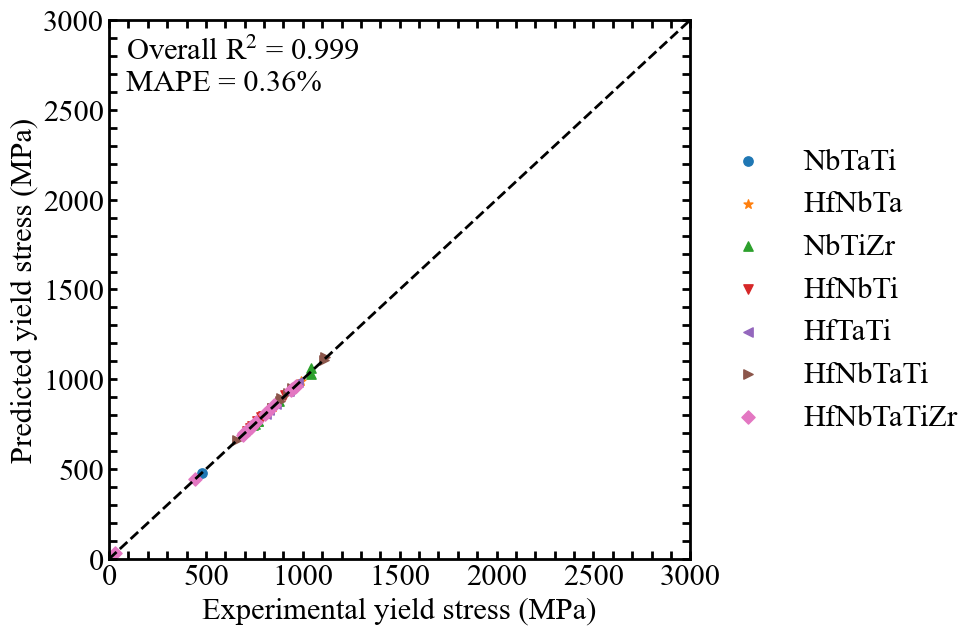
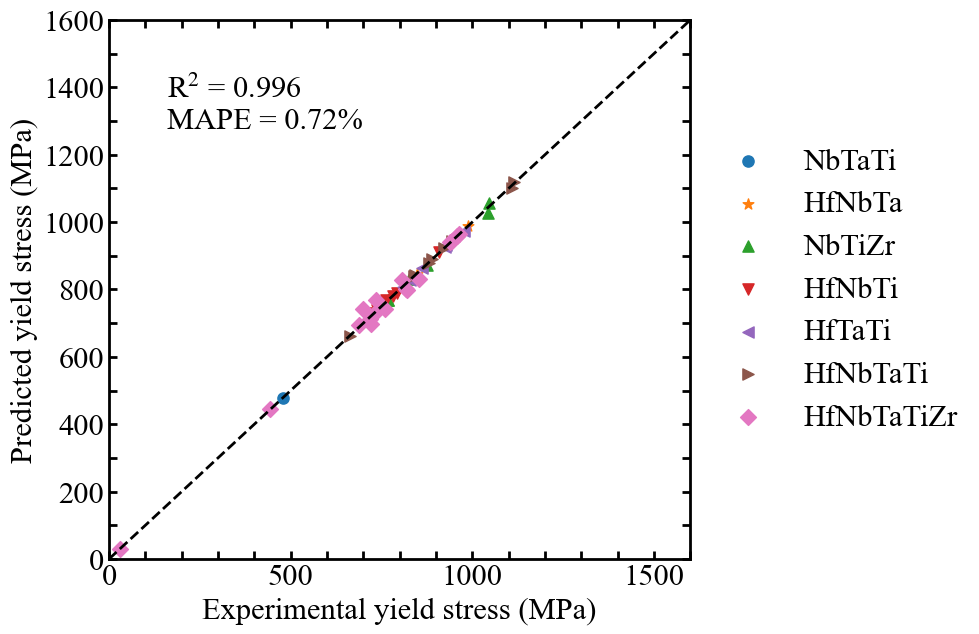
update aij code

diff --git a/LSR_strength_relation/Pytorch_fitting_strength_LSR.py b/LSR_strength_relation/Pytorch_fitting_strength_LSR.py
@@ -8,7 +8,7 @@ from tqdm import tqdm
 from sklearn.metrics import r2_score
 from matplotlib.ticker import MultipleLocator
 import util_fitting
-
+torch.manual_seed(0); np.random.seed(0)
 warnings.filterwarnings("ignore", category=UserWarning)
 
 class StrengthTrainer:
@@ -148,11 +148,9 @@ class StrengthTrainer:
         for i in range(len(Ncount)):
             r2s.append(r2_score(ys_exp_chunks[i], ys_pred_chunks[i]))
             plt.scatter(ys_exp_chunks[i], ys_pred_chunks[i],
-                        color=colors[i], marker=markers[i], label=labels[i], s=45)
-
-        lim = [0, 3000]
+                        color=colors[i], marker=markers[i], label=labels[i], s=65)
+        lim = [0, 1600]
         plt.plot(lim, lim, 'k--', linewidth=2)
-
         ax = plt.gca()
         ax.tick_params(axis='both', which='both', direction='in', width=2, length=6, top=True, right=True)
         ax.xaxis.set_minor_locator(MultipleLocator(100))
@@ -164,8 +162,8 @@ class StrengthTrainer:
         for s in ax.spines.values(): s.set_linewidth(2)
 
         # ---- annotate metrics on top of the plot ----
-        txt = f"Overall R$^2$ = {r2_all:.3f}\nMAPE = {mape_all:.2f}%"
-        ax.text(0.03, 0.97, txt, transform=ax.transAxes, va='top', ha='left',
+        txt = f"R$^2$ = {r2_all:.3f}\nMAPE = {mape_all:.2f}%"
+        ax.text(0.1, 0.9, txt, transform=ax.transAxes, va='top', ha='left',
                 bbox=dict(facecolor='white', edgecolor='none', alpha=0.85))
 
         fpng = os.path.join(self.args.fig_dir, "Comparison_yield_stress.png")
@@ -184,10 +182,81 @@ class StrengthTrainer:
         if len(self.loss_hist) == 0: return
         plt.figure(figsize=(7.5,5))
         plt.rcParams['font.family'] = 'Times New Roman'; plt.rcParams['font.size'] = 22; plt.rcParams['mathtext.fontset'] = 'stix'
-        plt.semilogy(self.loss_hist, color='darkblue', label='training', linewidth=2.5)
+        plt.semilogy(self.loss_hist, color='darkblue', label='Training', linewidth=2.5)
         plt.xlabel('Epochs'); plt.ylabel('Loss'); plt.tick_params(axis='both', which='both', direction='in'); plt.legend(loc="upper right", frameon=False)
         f = os.path.join(self.args.fig_dir, "loss.png")
         plt.savefig(f, bbox_inches='tight'); print(f"---> saved figure: {f}")
+
+    def plot_aij_components(self):
+        """Visualize fitted a_ij as (1) mean 6x6 heatmap and (2) 21-comp mean±std bar chart."""
+        self.model.eval()
+        with torch.no_grad():
+            # Build context and evaluate a_ij(z) for all samples
+            z = self.model._build_context(self.TP, self.SR, self.GS)      # (N,3)
+            A = self.model.subModel1.a_layer(z)                           # (N,6,6)
+            # Ensure exact symmetry (model should output symmetric, but make it explicit)
+            A = 0.5 * (A + A.transpose(-1, -2))
+            A_np = A.detach().cpu().numpy()                                # (N,6,6)
+
+        # ---- Figure 1: mean heatmap of a_ij ----
+        A_mean = A_np.mean(axis=0)                                         # (6,6)
+        plt.figure(figsize=(6.5, 5.6))
+        plt.rcParams['font.family'] = 'Times New Roman'
+        plt.rcParams['font.size'] = 20
+        plt.rcParams['mathtext.fontset'] = 'stix'
+
+        v = np.max(np.abs(A_mean))
+        im = plt.imshow(A_mean, origin='upper', cmap='coolwarm', vmin=-v, vmax=v)
+        cb = plt.colorbar(im, fraction=0.046, pad=0.04)
+        cb.ax.tick_params(labelsize=16)
+
+        slip_labels = [r'$\gamma^{110}$', r'$\tau^{110}$', r'$\gamma^{112}$',
+                       r'$\tau^{112}$', r'$\gamma^{123}$', r'$\tau^{123}$']
+        plt.xticks(range(6), slip_labels, rotation=45)
+        plt.yticks(range(6), slip_labels)
+        ax = plt.gca()
+        for s in ax.spines.values(): s.set_linewidth(2)
+        ax.tick_params(axis='both', which='both', direction='in', width=2, length=6, top=True, right=True)
+
+        # annotate values
+        for i in range(6):
+            for j in range(6):
+                plt.text(j, i, f"{A_mean[i,j]:.2f}", ha='center', va='center', fontsize=15, color='black')
+
+        plt.title(r"Mean $a_{ij}$ over dataset")
+        fpng = os.path.join(self.args.fig_dir, "aij_mean_heatmap.png")
+        fpdf = os.path.join(self.args.fig_dir, "aij_mean_heatmap.pdf")
+        plt.tight_layout(); plt.savefig(fpng, dpi=300); print(f"---> saved figure: {fpng}")
+        plt.savefig(fpdf); print(f"---> saved figure: {fpdf}")
+
+        # ---- Figure 2: upper-triangular components (mean ± std) ----
+        iu = np.triu_indices(6) # (21,)
+        A_tri = A_np[:, iu[0], iu[1]] # (N,21)
+        mu = A_tri.mean(axis=0)
+        sd = A_tri.std(axis=0)
+
+        # human-friendly labels like "e110–e110", "e110–s110", ...
+        pair_labels = [rf"{slip_labels[i]}$\leftrightarrow${slip_labels[j]}" for i, j in zip(iu[0], iu[1])]
+
+        plt.figure(figsize=(12, 5))
+        # plt.rcParams['font.family'] = 'Times New Roman'
+        # plt.rcParams['font.size'] = 16
+        # plt.rcParams['mathtext.fontset'] = 'stix'
+
+        x = np.arange(len(mu))
+        plt.bar(x, mu, yerr=sd, capsize=3, color='skyblue', edgecolor='black', error_kw={'elinewidth':1.5})
+        ax = plt.gca(); ax.set_xticks(x)
+        # show every label but keep it readable by tilting; feel free to thin ticks if crowded
+        ax.set_xticklabels(pair_labels, rotation=45, ha='right')
+        ax.set_ylabel(r"$a_{ij}$ (mean $\pm$ std)")
+        ax.set_title(r"Upper-triangular components of $a_{ij}$")
+        ax.tick_params(axis='both', which='both', direction='in', top=True, right=True)
+        for s in ax.spines.values(): s.set_linewidth(2)
+
+        fpng = os.path.join(self.args.fig_dir, "aij_upper_tri_bar.png")
+        fpdf = os.path.join(self.args.fig_dir, "aij_upper_tri_bar.pdf")
+        plt.tight_layout(); plt.savefig(fpng, dpi=300); print(f"---> saved figure: {fpng}")
+        plt.savefig(fpdf); print(f"---> saved figure: {fpdf}")
 
 
 def parse_args():
@@ -209,3 +278,4 @@ if __name__ == "__main__":
     y_pred = trainer.predict()
     trainer.plot_predictions(y_pred)
     trainer.plot_loss()
+    trainer.plot_aij_components() 

diff --git a/LSR_strength_relation/util_fitting.py b/LSR_strength_relation/util_fitting.py
@@ -164,7 +164,7 @@ class CustomModel(nn.Module):
         Shapes: each (B,) -> z: (B,3)
         """
         zT = Temp_input.to(device=device, dtype=_DTYPE)
-        zSR = torch.log(Srate_input.clamp_min(1e-30)).to(device=device, dtype=_DTYPE)
+        zSR = (Srate_input.clamp_min(1e-30)).to(device=device, dtype=_DTYPE) # torch.log
         zD = GrainSize_input.to(device=device, dtype=_DTYPE)
         z = torch.stack([zT, zSR, zD], dim=1)  # (B,3)
         return z
